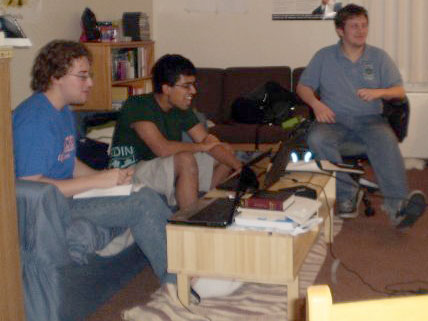
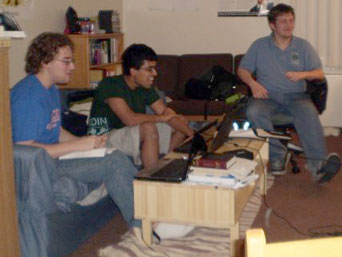
editing about.php
git-svn-id: file:///mnt/x/Users/Kevin/Desktop/ivystones-svn@67 96535c52-2767-499a-a306-8e95c0417af2

diff --git a/about.php b/about.php
@@ -10,7 +10,8 @@ include('header.html');
 					<br>
 					<p>IvyStones.com is a scavenger hunt to find the many Ivy Day stones hidden around the University of Pennsylvania campus.  Players can create an account and keep track of the stones that they've found as well as compare their finds with other players.</p>
 					<h1>About the Creators</h1>
-					<p>IvyStones was created by Sam Appelbaum, Kevin Conley, and Varun Sampath for the University of Pennsylvania's first <a href="http://www.pennapps.com">PennApps competition</a> in 2009.</p>  
+					<p>IvyStones was created by Sam Appelbaum, Kevin Conley, and Varun Sampath for the University of Pennsylvania's first <a href="http://www.pennapps.com">PennApps competition</a> in 2009.</p>
+					<img src="images/team.jpg" border="5">
 				</div>
 			</div>	
 		</div>
